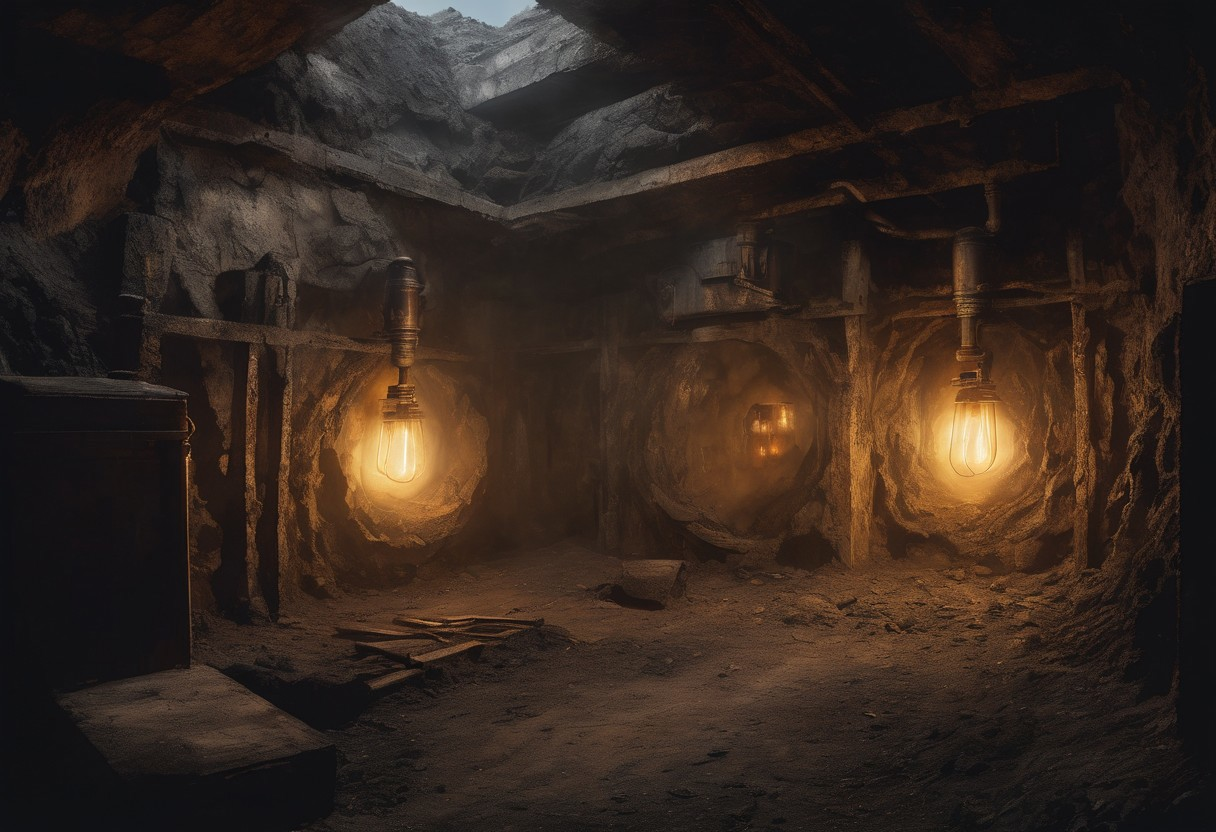
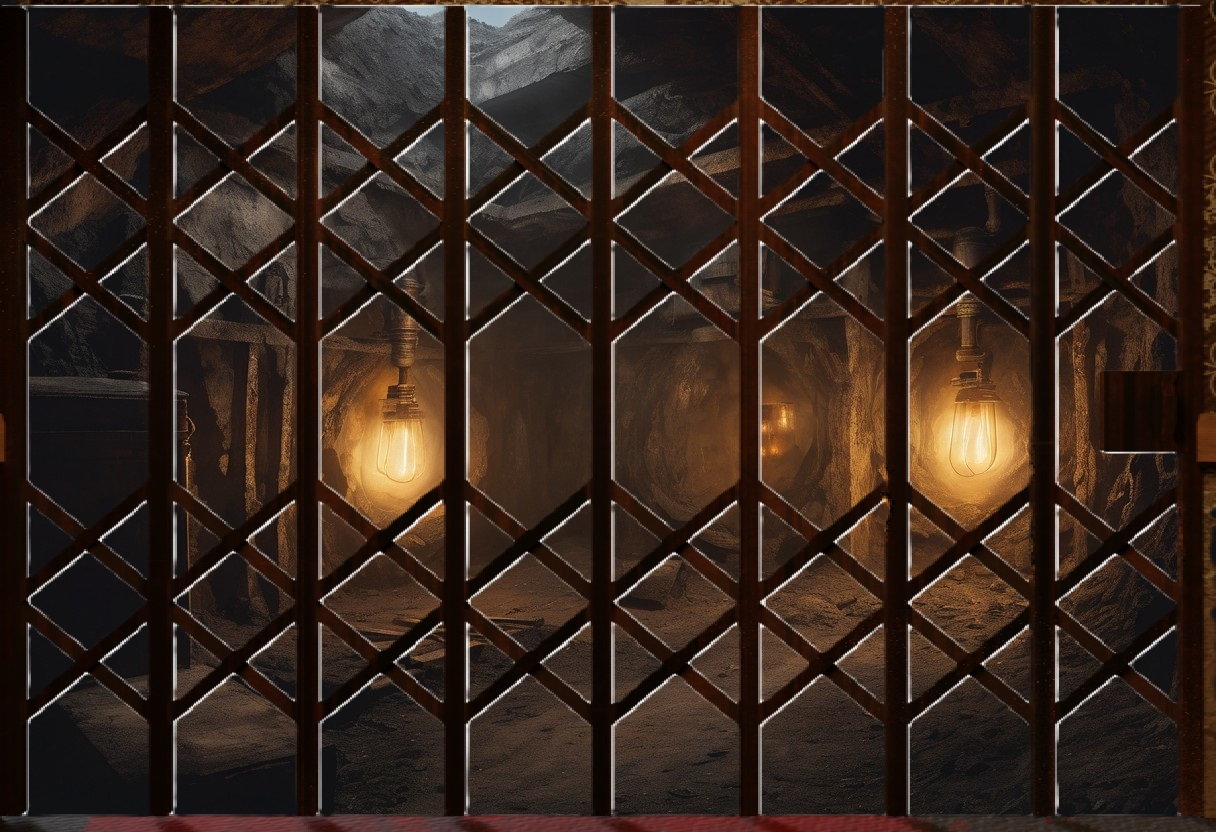
Changes to be committed: modified:   public/depth2.jpg modified:   public/finaldepth.jpg new file:   public/mineshaftwall.jpg modified:   src/App.tsx modified:   src/components/EnigmaInfo.tsx modified:   src/components/Enigmas.tsx modified:   src/components/MineShaft.tsx

diff --git a/src/components/EnigmaInfo.tsx b/src/components/EnigmaInfo.tsx
@@ -3,23 +3,88 @@ import React from 'react';
 const ENIGMA_INFO = [
   {
     title: "La pompe",
-    description: "Alors que vous avancez dans la galerie sombre, un bruit sourd monte du fond de la mine. L'eau s’infiltre par les parois, formant des flaques grandissantes. Soudain, un cri retentit : << L'ascenseur ! Il est remonté sans nous ! >>. Pris de panique, vous apercevez un atelier abandonné où une vieille pompe rouillée repose au milieu de pièces éparpillées. Cloué au mur, un schéma griffonné à la hâte attire votre attention.",
-    depth: "150 meters"
-  },
-  {
-    title: "Le chemin oublié",
-    description: "Le rugissement de la pompe emplit la galerie, et l'eau reflue lentement. Mais un silence pesant s'installe. L'ascenseur est hors d'atteinte, et les parois suintent toujours une menace silencieuse. En fouillant la petite pièce où la pompe se trouvait, l’un d’entre vous découvre une étagère branlante, couverte de livres poussiéreux. Au centre de l'étagère, un volume semble plus récent, ses pages cornées d’un usage intense. Gravé sur la couverture : << Plan des galeries – Section des Veines Est.>>. À l’intérieur, des notes manuscrites d’une écriture nerveuse : << Le passage des oubliés… Une issue vers la lumière… Un chemin pour ceux qui savent lire entre les lignes.>> Les pages sont parsemées de croquis, de coordonnées, et de détails cryptiques. En recoupant les informations, vous devrez trouver le chemin qui mène à une ancienne sortie de secours oubliée",
-    depth: "300 meters"
+    description: `Alors que vous avancez dans la galerie sombre, un bruit sourd monte du fond de la mine.
+    L'eau s’infiltre par les parois, formant des flaques grandissantes.
+    Soudain, un cri retentit : " L'ascenseur ! Il est remonté sans nous ! ". 
+    Pris de panique, vous apercevez un atelier abandonné où une vieille pompe rouillée repose au milieu de pièces éparpillées.
+    Une petite boite dorée contient de quoi la reparer`,
+    depth: "250 metres"
   },
   {
     title: "Les jetons",
-    description: "Vous avancez dans une galerie oubliée, où le silence semble alourdi par le poids des souvenirs. Les murs sont noircis par des décennies de poussière et d’oubli. Au détour d’un couloir, vous découvrez une pièce où le temps semble s’être arrêté. Face à vous, un tableau de bois usé, couvert de poussières. Des crochets rouillés pendent tristement, mais au sol, éparpillés, des jetons métalliques portant des noms et des numéros. Sur le tableau, une inscription gravée : << Ici reposent les noms de ceux qui ont fait battre le cœur de la mine. Respectez leur mémoire pour trouver la sortie.>> Les jetons appartenaient aux leaders syndicaux morts dans l’éboulement. Vous devez replacer chaque jeton à sa place sur le tableau, en respectant l’ordre de leur arrivée ce jour-là. Une vieille feuille tachée, coincée dans un coin de la pièce, contient un fragment de l’horaire de travail et quelques indices laissés par un survivant.",
-    depth: "450 meters"
-  },
+    description: `
+      Le rugissement de la pompe emplit la galerie, et l'eau reflue lentement. Mais un silence pesant s'installe.
+      L'ascenseur est hors d'atteinte...
+      Vous avancez dans une galerie oubliée, où le silence semble alourdi par le poids des souvenirs.
+      Vous trouvez l'ancienne salle des casiers
+      Les murs sont noircis par des décennies de poussière et d’oubli. 
+      Face à vous, un tableau de bois usé, couvert de poussières. Des crochets rouillés pendent tristement,
+      mais au sol, éparpillés, des jetons métalliques portant des noms et des numéros. 
+      Sur le tableau, une inscription gravée :
+      << Ici reposent les noms de ceux qui ont fait battre le cœur de la mine. Respectez leur mémoire pour trouver la sortie. >>
+      Carnet des Tréfonds – 14 septembre 1837
+
+      Ils nous ont condamnés. Neuf âmes, ensevelies vivantes sous les décombres de cette galerie maudite. Le patron ne voulait pas seulement briser notre grève : il voulait briser notre union. Et il y est presque arrivé.
+      
+      Parmi nous, il y avait un traître. Nous en avions des soupçons avant même que la terre ne se referme sur nous, mais nous n’avons jamais osé le croire. Si vous lisez ces lignes, c’est à vous de comprendre. Nos jetons sont suspendus sur le mur près de l’entrée – cherchez le clou rouge.
+      
+      Voici ce que nous savons :
+      
+      Au matin, le contremaître a hurlé : « Pierre, François, 392 et 21, en bas ! Pas le temps de traîner ! » Ces deux-là ont obéi sans un mot, comme toujours.
+      Jean-Baptiste et Louis étaient souvent mis ensemble pour surveiller les couloirs. « 447 et 971, veillez à ce que tout reste en ordre, » disait-il. Ils ne s’écartaient jamais l’un de l’autre.
+      Émile et Jules, inséparables, discutaient de leurs rêves de vie meilleure. L’un portait 508, l’autre 838, mais ils échangeaient tellement leurs outils qu’il était difficile de les distinguer.
+      Charles et Alphonse, qu’on appelait parfois « les petits gars », avaient toujours leurs jetons suspendus côte à côte, 278 et 51. Ils étaient modestes, mais courageux.
+      Et Henri... Henri était là, discret, presque effacé. Mais il avait une façon étrange de disparaître quand les choses se compliquaient. On ne lui confiait jamais de tâche essentielle, et pourtant, il savait toujours où être. Son jeton, 102, nous a longtemps semblé... banal. Jusqu’au jour où il a dit cette phrase troublante : « Peut-être que tout cela n’en vaut pas la peine... »
+      
+      Nous avons pris une décision collective. Le jeton 102 a été marqué d’un clou rouge, un acte de défiance, juste au cas où nos soupçons s’avéraient vrais. Mais nous n’avions pas de preuves.
+      
+      Si vous lisez ce carnet, cherchez ce jeton. Reconstituez nos vies, nos noms, nos numéros. Vous saurez alors qui nous étions. Et, peut-être, vous comprendrez ce qui nous a trahis.
+      
+      Jean-Baptiste Morel, au nom de mes camarades.
+    `,
+    depth: "450 metres"
+  }, 
+  {
+    title: "Le menu",
+    description:`
+     En ouvrant le casier du traitre Henri vous trouvez une lampe à essence.
+     Au fond de la piece, de l'air frais semble sortir d'un des casier fermé par un cadenas à chiffre. 
+     
+     Prés de ce casier un nouveau segment du journal : 
+
+     Carnet des Tréfonds – 14 septembre 1887
+
+     Nous pensions que tout était perdu, mais un mince espoir nous est parvenu, glissé dans l’ombre.
+     Madame de la Tour, la femme du propriétaire, a toujours semblé distante mais peut-être partage-t-elle nos rêves d’un monde plus juste...
+     Avant que la mine ne devienne notre tombe, un de nos camarades, Louis, a rapporté un curieux menu trouvé près des boîtes de thé 
+     dans l’entrepôt. C’était celui du banquet de leur mariage, un souvenir sans doute oublié.
+     Mais en examinant de près ce papier jauni, nous avons remarqué des annotations étranges, 
+     comme si quelqu’un voulait y dissimuler un message.
+    
+     Le code laissée par elle doit nous ouvrir la porte d'une piece secrète de la mine
+     `,
+     depth: "300 metres"
+  }, 
   {
     title: "Le livre des secrets",
-    description: "Lorsque le dernier jeton trouve sa place, un mécanisme se met en marche dans un grondement sourd. Une portion de la paroi s’écarte, dévoilant une pièce secrète. À l’intérieur, des étagères regorgent de livres soigneusement alignés. Les rayonnages poussiéreux abritent des ouvrages révolutionnaires, symboles d’espoir et de lutte. Sur une table, un carnet à la couverture écornée attire votre attention. Il est signé d’une écriture élégante : <<Pour ceux qui croient encore à la liberté, je vous offre une chance.>> Un mot griffonné suit : << 153, 2  4. Là se trouve la clé de votre salut.>>",
-    depth: "600 meters"
+    description: `Lorsque le dernier chiffre trouve sa place, vous ouvrez la porte du casier.
+    Il s'agit en fait d'un passage vers une piece secrete où les precedents meneurs de la greve preparait la revolution
+    A l’intérieur, des étagères regorgent de livres soigneusement alignés.
+    Les rayonnages poussiéreux abritent des ouvrages révolutionnaires, symboles d’espoir et de lutte. 
+    Sur une table, un carnet à la couverture écornée attire votre attention : 
+    Carnet des Tréfonds – 14 septembre 1887
+
+    L’espoir persiste, même dans les ténèbres les plus profondes. 
+    Alors que la mine semble vouloir nous engloutir, une lueur inattendue nous parvient.
+    Une phrase mystérieuse dites avant de descendre pourrait contenir la clé de notre survie :
+    "Cherchez dans l’œuvre où la mine devient symbole, où la lutte jaillit des entrailles de la terre.
+    Là, au second volet de cette fresque, à la page cent-onze, ligne deux, le quatrieme mot vous ouvre la voie"
+
+    Nous savons qu'il s'agit d'une œuvre qui a  marqué bien des esprits
+    Nous savons de quel livre il s’agit, car son titre résonne comme une promesse : un souffle nouveau, une saison de renouveau, celle qui suit l’hiver.
+
+    Si quelqu’un lit ce carnet, suivez cette piste. Le mot que vous trouverez sera peut-être la clé qui ouvrira les portes de cette prison.`,
+    depth: "600 metres"
   }
 ];
 

diff --git a/src/components/Enigmas.tsx b/src/components/Enigmas.tsx
@@ -7,23 +7,27 @@ const ENIGMAS = [
   {
     id: 1,
     question:
-      "Un mot écrit d'une main tremblante : <<La pompe est votre salut. Assemblez les engrenages avant qu’il ne soit trop tard, tout ce que je sais c'est qu'ensemble ils forment le plus grand danger de la mine.>> Le temps presse. Les engrenages doivent s'imbriquer parfaitement pour remettre en marche la pompe et stopper la montée des eaux.",
+    `Un mot écrit d'une main tremblante : 
+    "La pompe est votre salut. Assemblez les engrenages avant qu’il ne soit trop tard, la solution est protégée de l'eau dans une boite dorée " 
+    Le temps presse. Les engrenages doivent s'imbriquer parfaitement pour remettre en marche la pompe et stopper la montée des eaux.`,
     answer: 'grisou',
   },
   {
     id: 2,
-    question: "Vite ! il nous faut le nom des des puits de ventilation dans le bon ordre",
-    answer: "abcd",
+    question: "Livrez le nom de famille du traitre, il est marqué du rouge du sang des travailleurs",
+    answer: "chabert",
   },
   {
     id: 3,
-    question: 'Les numeros de jetons des camarades tombés au combats ouvre la porte',
-    answer: '0123456789100',
+    question: 'Vous cherchez le code de la porte, la solution est dans le menu',
+    answer: '44144418914',
     type: 'number-sequence',
   },
   {
     id: 4,
-    question: " << T2 111 2 4 >> Des hommes poussaient, une armée noire, vengeresse, qui germait lentement dans les sillons, grandissant pour les récoltes du siècle futur, et dont la germination allait faire bientôt éclater la terre",
+    question: `"Là, au second volet de cette fresque, à la page cent-onze, ligne deux, le quatrieme mot vous ouvre la voie"
+    Au fond de la piece 4 leviers, la couleur de celui qui ouvre la voie vers la sortie est la reponse à cette derniere enigme
+    `,
     answer: 'rouge',
   },
 ];

diff --git a/src/App.tsx b/src/App.tsx
@@ -11,7 +11,7 @@ import { useScrollPosition } from './hooks/useScrollPosition';
 function App() {
   const [showInfo, setShowInfo] = useState(true);
   const scrollPosition = useScrollPosition();
-  const showEnigmas = scrollPosition > window.innerHeight * 12;
+  const showEnigmas = scrollPosition > window.innerHeight * 20;
   
   return (
     <div className="relative">

diff --git a/src/components/MineShaft.tsx b/src/components/MineShaft.tsx
@@ -10,15 +10,15 @@ const MINE_LAYERS = [
   {
     depth: 1,
     image: '/depth2.jpg',
-    text: 'Les tunnles superieurs'
+    text: 'Les tunnels superieurs'
   },
   {
-    depth: 2,
+    depth: 3,
     image: '/finaldepth.jpg',
     text: 'Le vieux filon'
   },
   {
-    depth: 3,
+    depth: 5,
     image: '/depth3.jpg',
     text: 'Le fond'
   }
